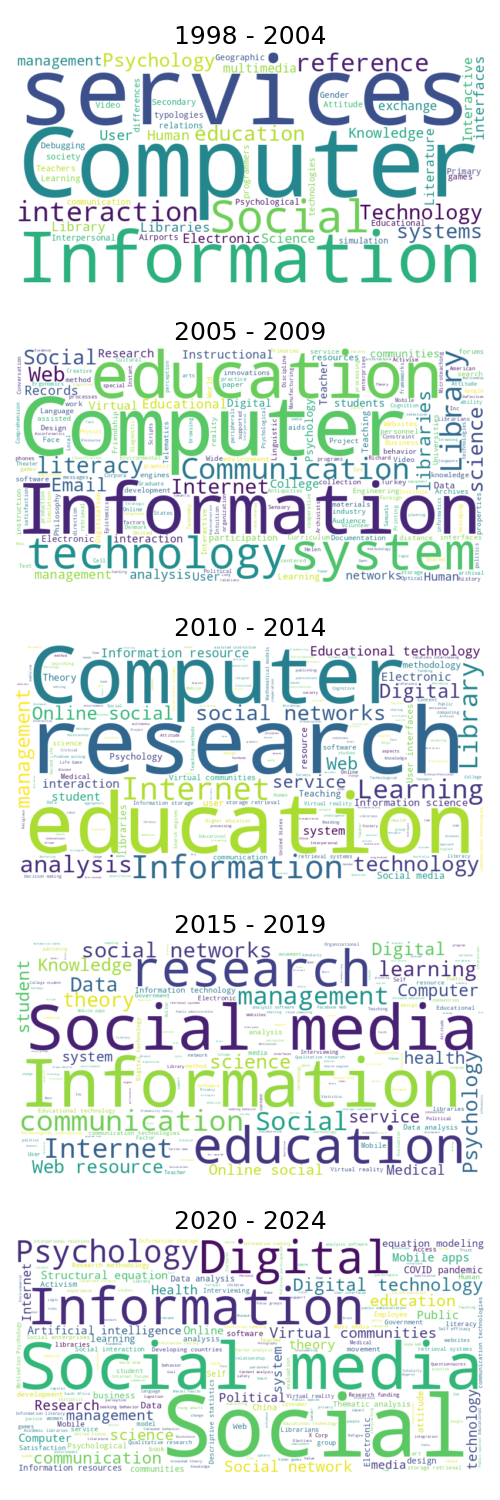
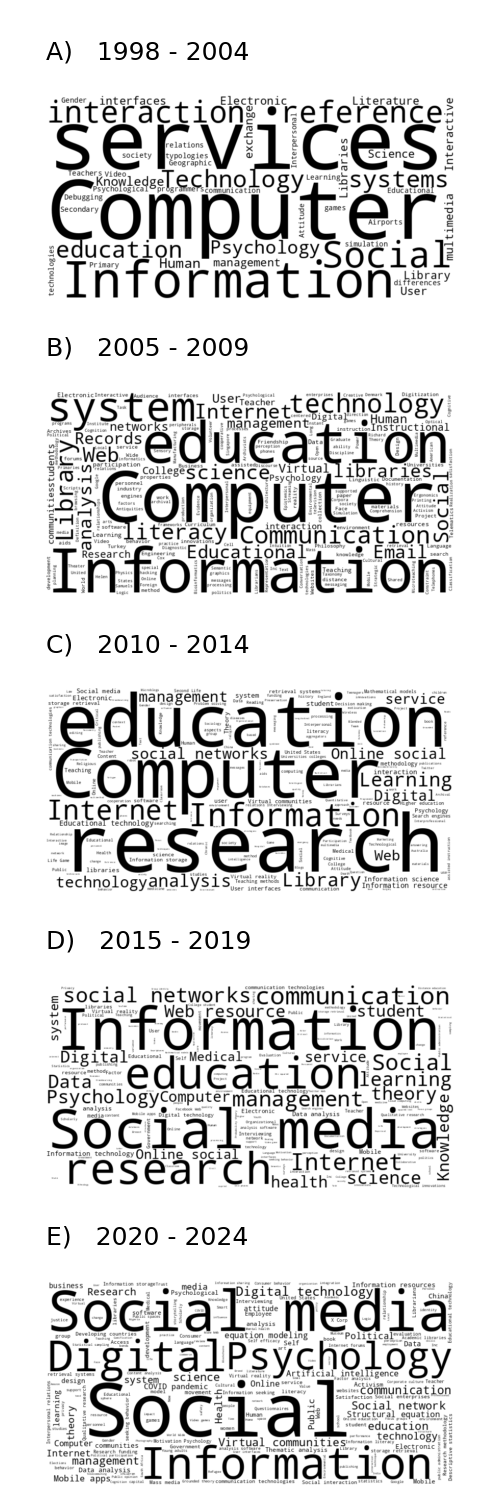
tweaks

diff --git a/wordclouds_article-subjects.py b/wordclouds_article-subjects.py
@@ -22,20 +22,39 @@ intervals = [
     range(2020, 2025),  # 2020-2024
 ]
 
+plot_labels = ["A)", "B)", "C)", "D)", "E)"]
+
+
+# Define a simple color function that returns a fixed color (e.g., black)
+def fixed_color_func(
+    word, font_size, position, orientation, random_state=None, **kwargs
+):
+    return "tab:blue"  # You can change this to any color like "grey", "blue", etc.
+
+
 fig, axs = plt.subplots(len(intervals), 1, figsize=(5, 15))
-for i_plot, interval in enumerate(intervals):
+for (i_plot, interval), plot_label in zip(enumerate(intervals), plot_labels):
     rows = df[df["year"].isin(interval)]
     subjects_rows = rows["subjects"].str.cat(sep="; ")
     wc = WordCloud(
-        width=800, height=400, background_color="white", stopwords=STOPWORDS
+        width=800,
+        height=400,
+        background_color="white",
+        stopwords=STOPWORDS,
+        color_func=fixed_color_func,
     ).generate(subjects_rows)
     axs[i_plot].imshow(wc, interpolation="bilinear")
     axs[i_plot].axis("off")
-    axs[i_plot].set_title(f"{interval[0]} - {interval[-1]}", fontsize=18)
+    axs[i_plot].set_title(
+        f"\n{plot_label}   {interval[0]} - {interval[-1]}\n", fontsize=18, loc="left"
+    )
 
 
 plt.tight_layout()
 destination = Path(__file__).resolve().parent / "wordcloud_article-subjects.png"
+plt.savefig(destination)
+
+destination = Path(__file__).resolve().parent / "wordcloud_article-subjects.svg"
 plt.savefig(destination)
 
 

diff --git a/barplot_count-articles-over-time.py b/barplot_count-articles-over-time.py
@@ -13,7 +13,7 @@ df["datetime"] = pd.to_datetime(df["publicationDate"], format="%Y%m%d")
 df["year"] = df["datetime"].dt.year
 # counts_df = df.groupby(["year", "source"]).size().reset_index(name="count")
 
-fig, ax = plt.subplots(figsize=(10, 5))
+fig, ax = plt.subplots(figsize=(7, 4))
 sns.countplot(data=df, x="year")
 
 labels = ax.get_xticklabels()
